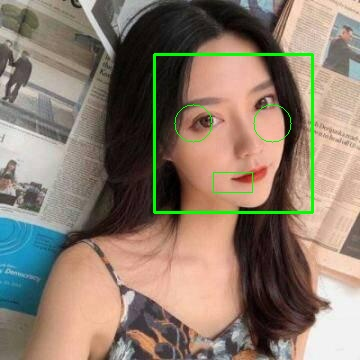
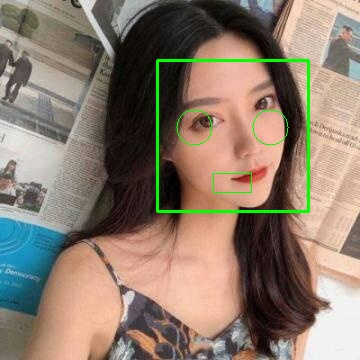
FD pic

Changed region(s): [[0.3972, 0.1222, 0.8861, 0.6111], [0.6722, 0.4583, 0.7333, 0.55], [0.5806, 0.4583, 0.6417, 0.4889]]

diff --git a/FaceAI/Face Detection <pic>/FD_pic.py b/FaceAI/Face Detection <pic>/FD_pic.py
@@ -1,6 +1,6 @@
 import cv2
 
-filepath = "/Users/Starkjing/Desktop/ComputerVision/FaceAI/1.jpg"
+filepath = "/Users/Starkjing/Desktop/ComputerVision/FaceAI/Face Detection <pic>/1.jpg"
 img = cv2.imread(filepath)  # 读取图片
 gray = cv2.cvtColor(img, cv2.COLOR_BGR2GRAY)  # 转换灰色
 
@@ -12,7 +12,7 @@ classifier = cv2.CascadeClassifier(
 color = (0, 255, 0)  # 定义绘制颜色
 # 调用识别人脸
 faceRects = classifier.detectMultiScale(
-    gray, scaleFactor=1.2, minNeighbors=3, minSize=(32, 32))
+    gray, scaleFactor=1.3, minNeighbors=5, minSize=(30, 30))
 if len(faceRects):  # 大于0则检测到人脸
     for faceRect in faceRects:  # 单独框出每一张人脸
         x, y, w, h = faceRect
@@ -28,7 +28,7 @@ if len(faceRects):  # 大于0则检测到人脸
         cv2.rectangle(img, (x + 3 * w // 8, y + 3 * h // 4),
                       (x + 5 * w // 8, y + 7 * h // 8), color)
 
-cv2.imwrite('/Users/Starkjing/Desktop/ComputerVision/FaceAI/girl_FD.jpg',img)
+cv2.imwrite("/Users/Starkjing/Desktop/ComputerVision/FaceAI/Face Detection <pic>/girl_FD.jpg",img)
 cv2.imshow("image", img)  # 显示图像
 c = cv2.waitKey(10)
 
